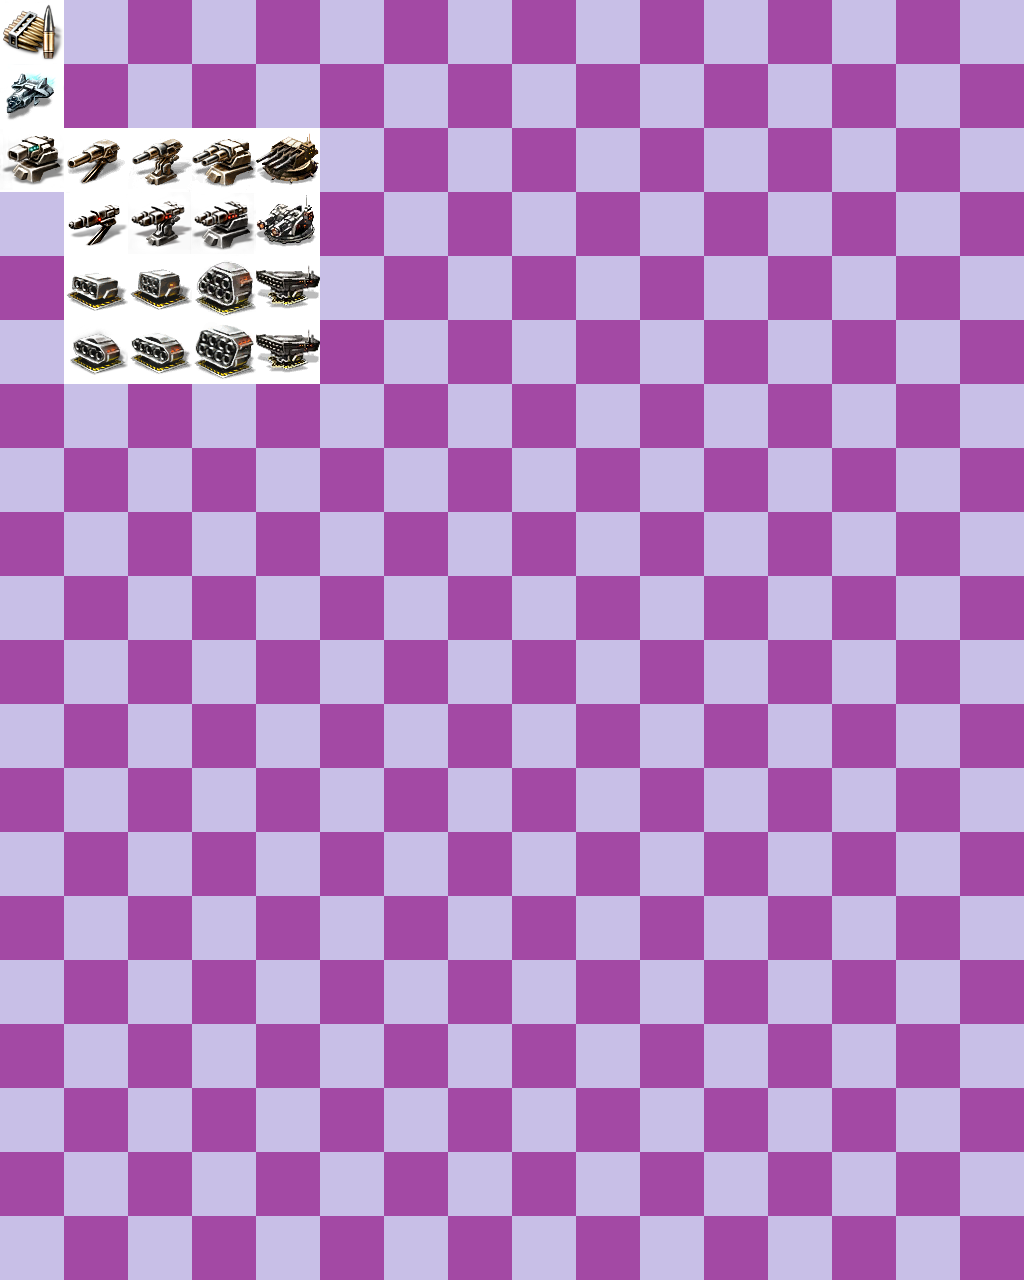
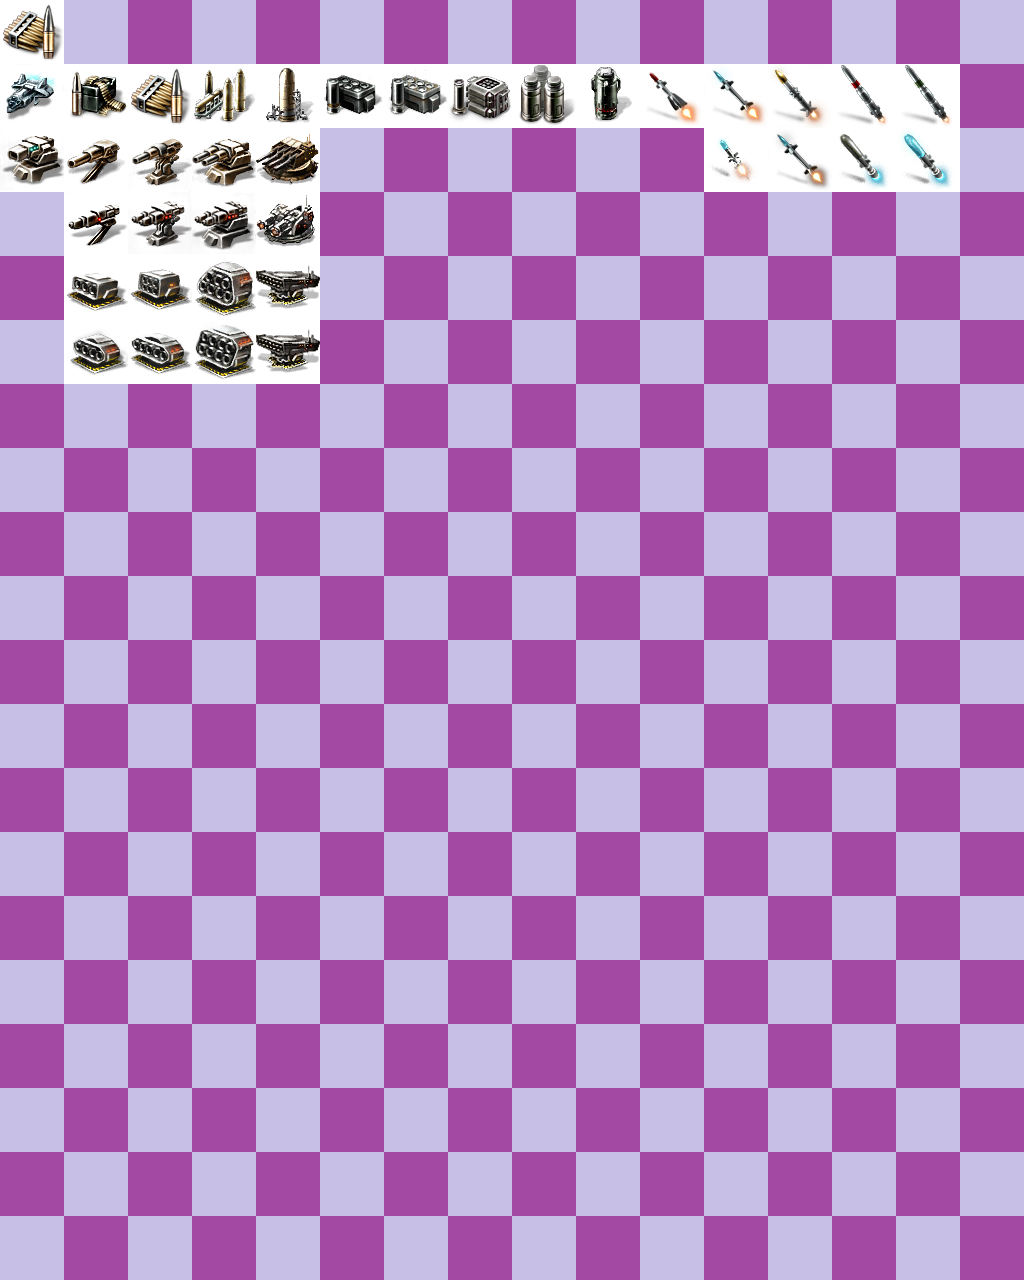
Add item type ammo Fix ammo management Weapon ammo restrisction (begin)

Changed region(s): [[0.0625, 0.0312, 0.9375, 0.1562]]

diff --git a/src/space_2/WeaponModel.cpp b/src/space_2/WeaponModel.cpp
@@ -12,6 +12,7 @@
 #define CONFIG_RELOADINGSPEED		"reloadingspeed"
 #define CONFIG_FIRERATE				"firerate"
 #define CONFIG_SOUNDRELOAD			"soundreload"
+#define CONFIG_AMMOTYPEALLOWED		"ammotype_allowed"
 
 
 //*************************************************************
@@ -103,6 +104,21 @@ void WeaponModel::setSoundReload( std::string p_sound )
 	this->mSoundReload = p_sound;
 }
 
+int WeaponModel::getAmmoTypeAllowedCount()
+{
+	return this->mAmmoTypeAllowed.size();
+}
+
+ItemType* WeaponModel::getAmmoTypeAllowed( int p_index )
+{
+	return this->mAmmoTypeAllowed[p_index];
+}
+
+std::vector<ItemType*> WeaponModel::getAmmoTypeAllowed()
+{
+	return this->mAmmoTypeAllowed;
+}
+
 
 //*************************************************************
 // Methods
@@ -129,5 +145,12 @@ void WeaponModel::loadFromConfig( KeyValueFile* p_config )
 
 	if(p_config->has(CONFIG_SOUNDRELOAD))
 		this->setSoundReload(p_config->getString(CONFIG_SOUNDRELOAD));
+
+	if(p_config->has(CONFIG_AMMOTYPEALLOWED))
+	{
+		SplitString ammoIds(p_config->getString(CONFIG_AMMOTYPEALLOWED), ";");
+		for(int i = 0; i < ammoIds.getSplitCount(); i++)
+			this->mAmmoTypeAllowed.push_back(FactoryGet::getItemTypeFactory()->getItemType(Tools::getLongFromString(ammoIds.getSplitString(i))));
+	}
 }
 

diff --git a/src/space_2/HangarShipWeaponView.cpp b/src/space_2/HangarShipWeaponView.cpp
@@ -155,9 +155,36 @@ void HangarShipWeaponView::updateCharacterShipWeaponAmmos()
 
 void HangarShipWeaponView::updateContainerAmmosItems()
 {
-	for(int i = 0; i < this->mContainerWeaponStackViews.size(); i++)
-	{
+	// Update restriction
 
+	// Update content
+	for(int i = 0; i < this->mCharacterShip->getWeaponsCount(); i++)
+	{
+		if(!this->mContainerWeaponStackViews[i]->getContainerStack()->hasItemStack())
+		{
+			this->mContainerAmmosItemViews[i]->getContainerItem()->setItem(NULL);
+		}
+		else
+		{
+			// Correct index
+			int index = i;
+			for(int j = 0; j < i; j++)
+			{
+				if(!this->mContainerWeaponStackViews[j]->getContainerStack()->hasItemStack())
+					index++;
+			}
+
+			// Update
+			if(this->mCharacterShip->getWeapon(i)->getAmmo() != NULL)
+			{
+				this->mContainerAmmosItemViews[index]->getContainerItem()->setItem(this->mCharacterShip->getWeapon(i)->getAmmo());
+			}
+			else if(this->mContainerAmmosItemViews[index]->getContainerItem()->hasItem())
+			{
+				if(!this->mContainerAmmosItemViews[index]->getContainerItem()->isItemTypeAllowed(this->mContainerAmmosItemViews[index]->getContainerItem()->getItem()->getItemType()))
+					this->mContainerAmmosItemViews[index]->getContainerItem()->setItem(NULL);
+			}
+		}
 	}
 }
 

diff --git a/src/space_2/WeaponModel.h b/src/space_2/WeaponModel.h
@@ -31,6 +31,10 @@ public:
 	std::string getSoundReload();
 	void setSoundReload(std::string p_sound);
 
+	int getAmmoTypeAllowedCount();
+	ItemType* getAmmoTypeAllowed(int p_index);
+	std::vector<ItemType*> getAmmoTypeAllowed();
+
 	// Methods
 	void loadFromConfig(KeyValueFile* p_config);
 
@@ -44,6 +48,8 @@ private:
 	float mReloadingSpeed;
 	float mFireRate;
 	std::string mSoundReload;
+
+	std::vector<ItemType*> mAmmoTypeAllowed;
 };
 
 
